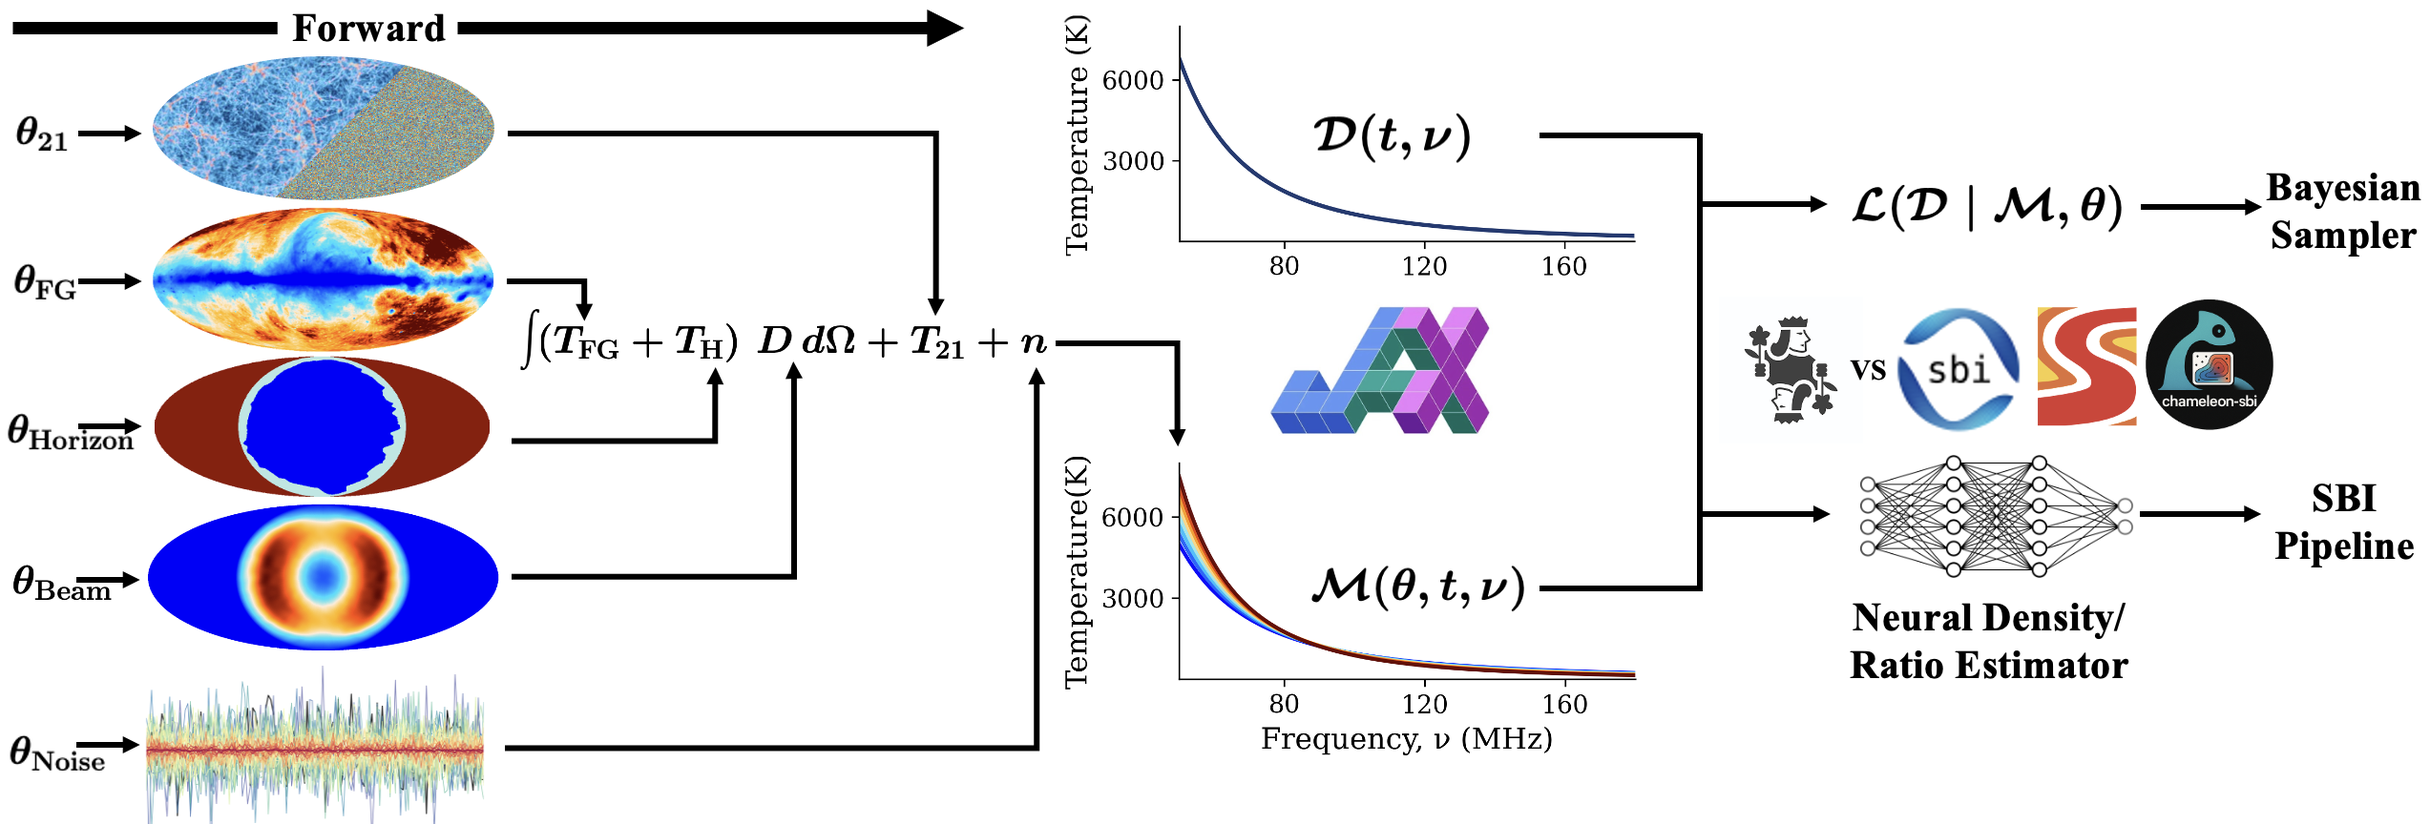
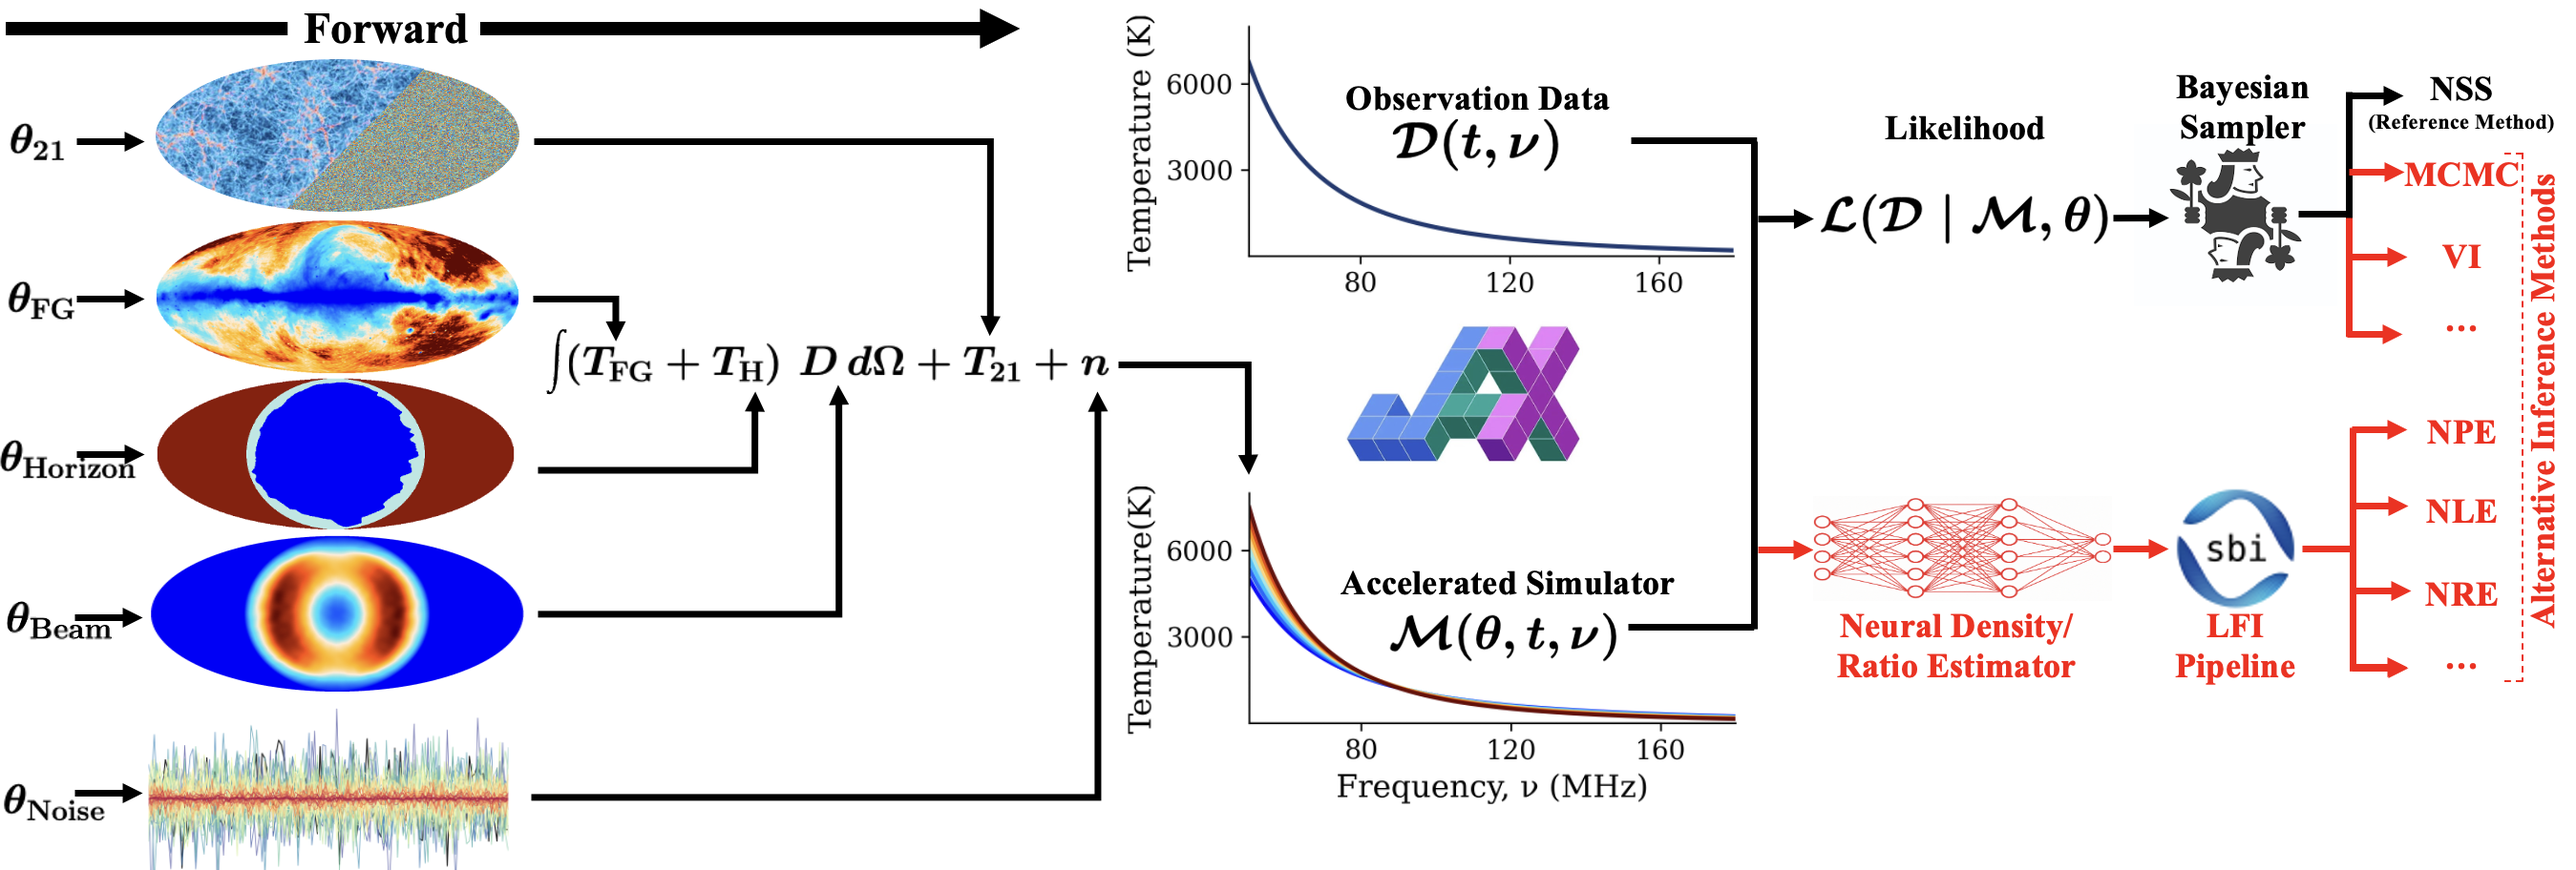
Update inference workflow figure

diff --git a/README.md b/README.md
@@ -99,8 +99,8 @@ Gaussian-noise model:
 
 ![End-to-end inference pipeline](docs/figures/inference_pipeline.png)
 
-*Figure 2. End-to-end inference path from the accelerated forward model to
-likelihood-based Bayesian sampling.*
+*Figure 2. Benchmark workflow from physical uncertainty components and
+accelerated simulation to reference NSS and alternative inference methods.*
 
 The two parameterisations share a single object interface:
 
